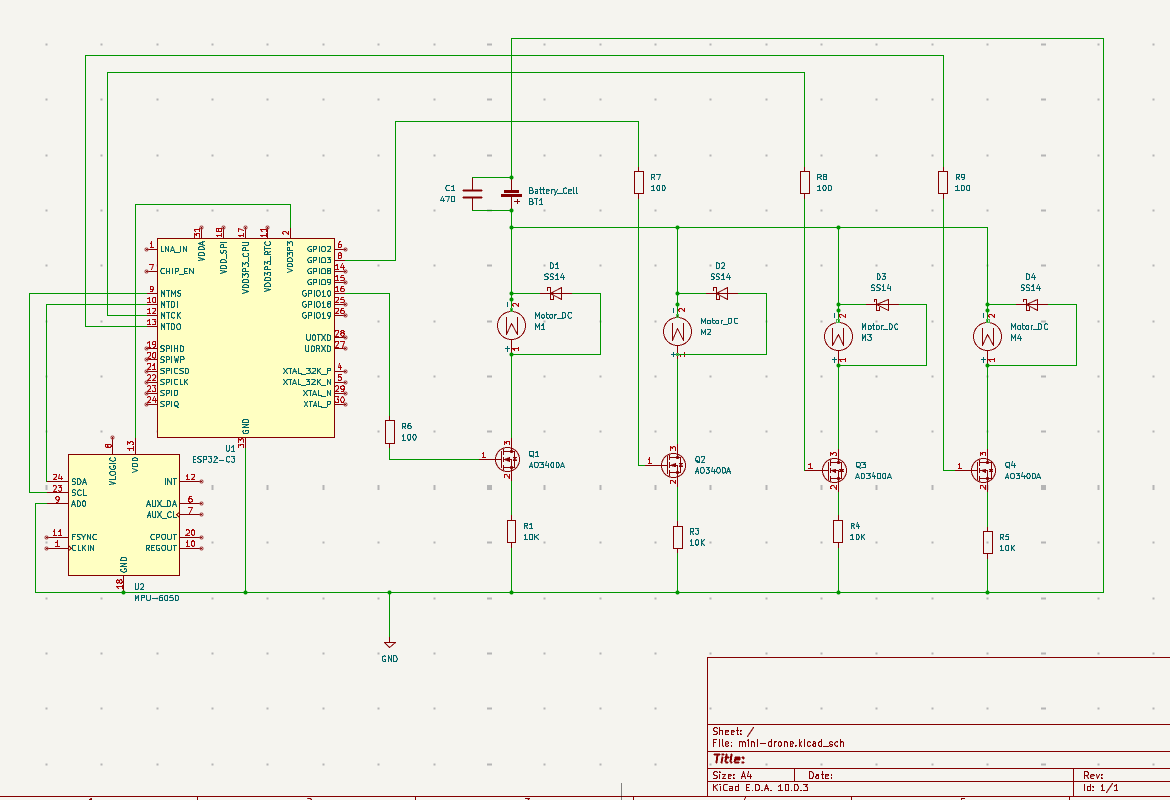
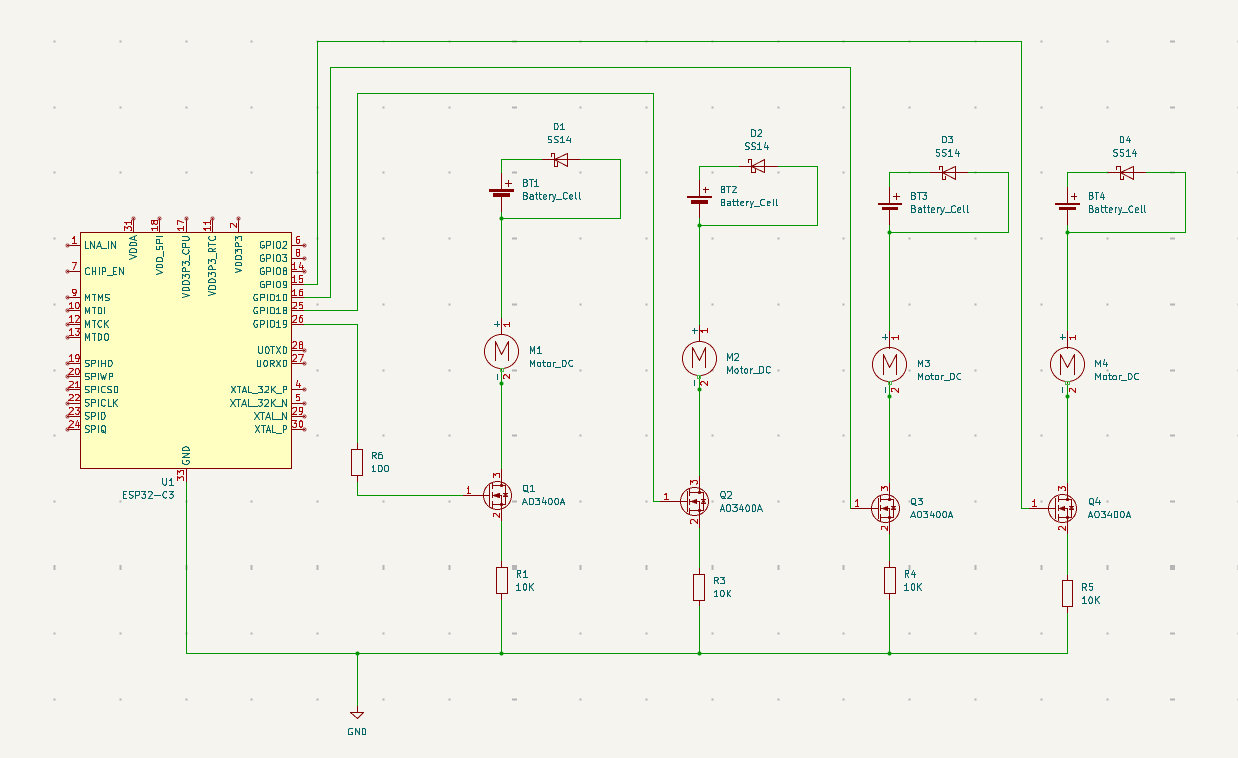
update scheme

diff --git a/Code/test.c b/Code/test.c
@@ -1,0 +1,10 @@
+#include <stdio.h>
+#include <stdlib.h>
+
+
+int main() {
+
+    printf("%d",(1 <<3));
+
+    return 0;
+}